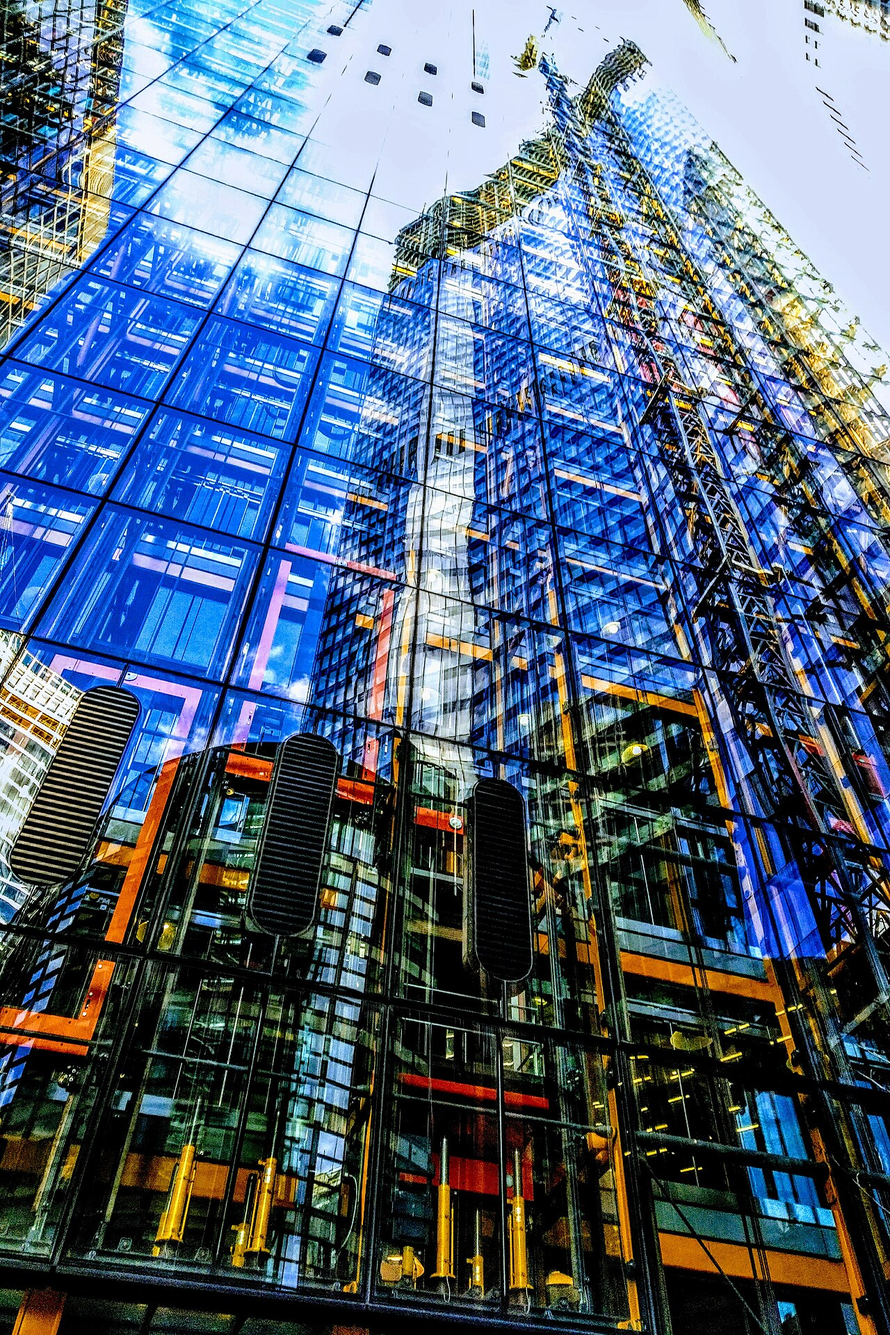
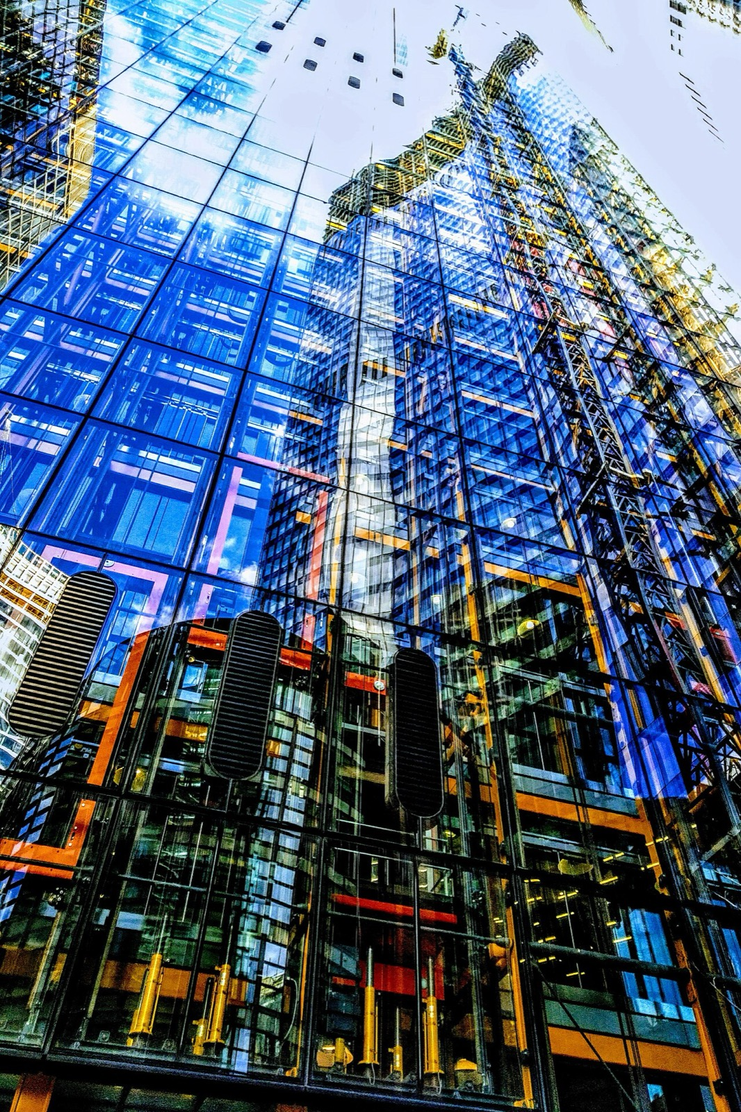
Compress large curated images

diff --git a/docs/PERFORMANCE.md b/docs/PERFORMANCE.md
@@ -1,17 +1,17 @@
 # PERFORMANCE.md — 性能审计与优化
 
-> 最后更新：2026-05-31
+> 最后更新：2026-06-02
 
 ## 当前性能概况
 
 | 指标 | 数值 | 评估 |
 |------|------|------|
-| 静态生成页面 | 3,180 | ✅ |
-| Vercel 部署包 | 43.8MB | ⚠ 偏大（主要为 curated images） |
+| 静态生成页面 | 3,195 | ✅ |
+| Vercel 部署包 | 约 43–44MB | ⚠ 偏大（主要为 curated images） |
 | Client Components | 12 个 | ✅ 合理 |
 | Dynamic imports | 0 | ⚠ 无代码分割 |
-| 最大单文件图片 | 1.2MB (JPG) | ⚠ 偏大 |
-| 首页 TSX 行数 | 358 | ❌ 过大 |
+| 最大单文件图片 | 约 999.5KB (JPG) | ✅ 已低于 1MB |
+| 首页 TSX 行数 | 500 | ⚠ 文案已集中，仍需拆组件 |
 
 ## 图片性能
 
@@ -20,14 +20,14 @@
 | 问题 | 详情 | 影响 |
 |------|------|------|
 | 首页无 lazy loading | 所有图片在首屏加载 | LCP 偏高 |
-| curated 目录过大 | 218 文件 76MB，全部部署到 Vercel | 每次部署上传 43.8MB |
+| curated 目录过大 | 220 文件约 75MB，全部部署到 Vercel | 每次部署上传约 43–44MB |
 | 无响应式图片 | 部分组件使用原生 `<img>` 无 srcset | 移动端加载过大图片 |
 
 ### 建议
 
 1. **响应式图片**：为原生 `<img>` 添加 srcset（或迁移到 SafeImage）
 2. **Lazy loading**：建筑卡片图片使用 `loading="lazy"`
-3. **压缩超大 JPG**：优先处理 1MB 以上本地缓存图片
+3. **压缩超大 JPG**：1MB 以上本地缓存 JPG 已清零；后续新增图片继续保持该阈值
 4. **图片 CDN**：中期迁移到 Cloudflare R2 或 Supabase Storage + CDN
 
 ## Bundle 与路由
@@ -36,7 +36,7 @@
 
 | 问题 | 位置 | 影响 |
 |------|------|------|
-| 首页 358 行 | `src/app/[lang]/page.tsx` | 单体页面过大，难以维护 |
+| 首页 500 行 | `src/app/[lang]/page.tsx` | 文案已集中，但单体页面仍偏大，难以维护 |
 | 零 dynamic import | 全项目 | 首页加载全部组件代码 |
 | 关系查询全表摄入 | `relations.ts` | 数据增长后响应变慢 |
 | 搜索 API JS 端过滤 | `src/app/api/search/route.ts` | 已加短 TTL 缓存与字段权重排序；数据继续增长后仍需数据库全文索引 |
@@ -105,13 +105,13 @@ Reveal           — framer-motion
 ## 优化优先级
 
 ### 高（立即）
-- 压缩 1MB 以上本地缓存 JPG
+- 拆分首页为子组件，保持文案层与视觉结构可维护
 
 ### 中（短期）
-- 首页拆分为子组件（提升可维护性）
 - 关系查询优化（预防数据增长后性能下降）
 - 搜索 API 数据库全文索引（短缓存与相关性排序已完成第一步）
 - 首屏图片 lazy loading
+- 新增图片入库前检查 1MB 阈值
 
 ### 低（长期）
 - Dynamic import 非首屏组件

diff --git a/docs/STATUS.md b/docs/STATUS.md
@@ -65,7 +65,7 @@
 - 图片审计：audit-images.mjs（7276 张图片，4794 张可信）
 - 图片注册表：build-image-registry.mjs（632 建筑，4794 图片）
 - 本地缓存脚本：cache-curated-images.mjs
-- 本地缓存：218 张图片（76MB），覆盖 198 个建筑
+- 本地缓存：220 张图片（约 75MB），覆盖 198 个建筑
 - 远程审核策展：image-overrides.json（20 条目，已去除与本地缓存重复的条目）
 - 本地缓存映射：local-image-overrides.json（198 条目）
 - 图片署名组件：ImageAttribution（首页 hero、精选、详情页）
@@ -602,6 +602,13 @@
 - ✅ 部署验证：提交 `12f549e` 已推送 GitHub `main`，Vercel 生产部署 `architect-history-next-pqe037d08-yrqx-95s-projects.vercel.app` Ready
 - ✅ 正式域名验证：`https://archistory.app/zh`、`/en`、`/ja` 均返回新版首页 UI 文案；英文页显示 `China · 2019`，不再返回已知中文简介或中文地点片段
 
+### 第五十阶段：本地大图体积压缩
+- ✅ 压缩 3 张超过 1MB 的本地缓存 JPG：`asakusa-culture-center-1024.jpg`、`empire-state-building-1024.jpg`、`122-leadenhall-street-1024.jpg`
+- ✅ 竖图最长边控制到 1600px；浅草文化观光中心图保持原始 914×1500 尺寸，避免无意义放大
+- ✅ 3 张图片总量约从 3.4MB 降到 1.6MB；`public/images/curated` 中 1MB 以上 JPG 数量从 `3` 降为 `0`
+- ✅ 人工抽样查看三张压缩后图片，未见明显压缩损伤或主题变暗问题
+- ✅ 文档同步：`PERFORMANCE.md` 更新当前最大 JPG、curated 目录体积和后续图片入库阈值
+
 ### 当前 docs/ 结构（11 个文档）
 ```
 docs/
@@ -621,19 +628,19 @@ docs/
 ### 仍待修复（按优先级）
 1. 🟡 数据库中的 type_slug 已有前台兼容层，仍需长期迁移为稳定 slug
 2. 🟢 首页 500 行，后续仍应拆分为 hero、featured、architect index、timeline preview 等子组件
-3. 🟢 压缩 1MB 以上本地缓存 JPG，降低移动端图片负担
+3. 🟢 继续补全缺少 biography、portrait 和代表作图片的建筑师
 4. 🟢 搜索 API 数据库全文索引待规划（短缓存与相关性排序已完成第一步）
 
 ## 下一步优先级
 
 ### 立即（本周）
 1. 统一数据库中的 type_slug 为 slug
-2. 压缩 1MB 以上本地缓存 JPG
-3. 继续补全缺少 biography、portrait 和代表作图片的建筑师
+2. 继续补全缺少 biography、portrait 和代表作图片的建筑师
+3. 拆分首页为子组件
 
 ### 短期（两周内）
 4. 拆分 ImageGallery 过大组件
-5. 首页拆分为子组件
+5. 新增图片入库前 1MB 阈值检查
 6. 将高复用页面文案继续迁移到集中 copy/i18n 层
 
 ### 中期（一月内）
